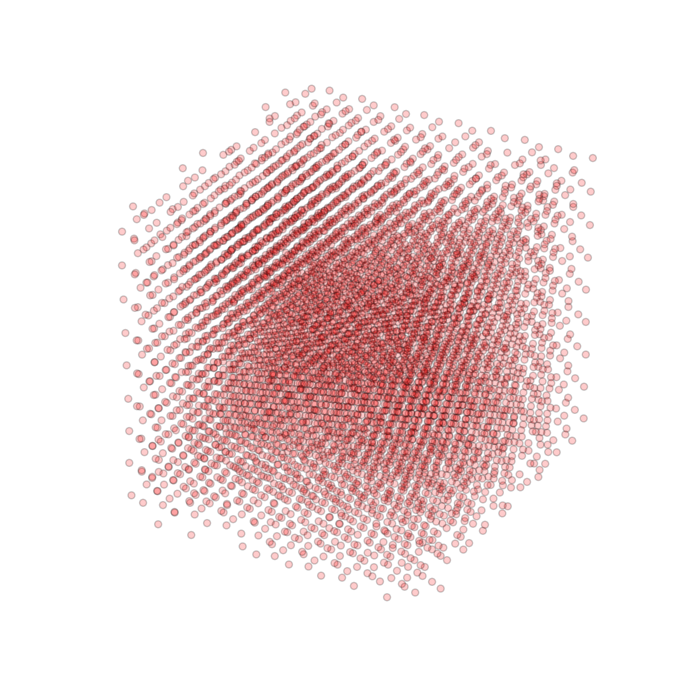
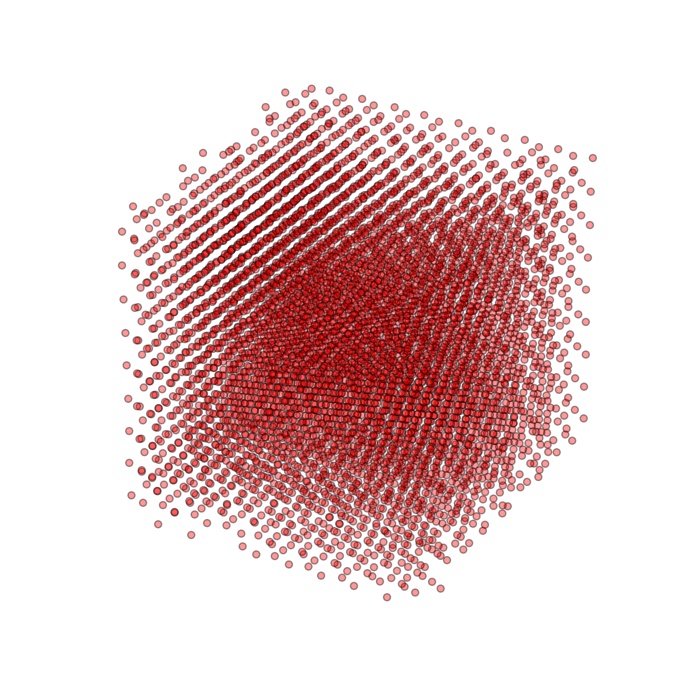
updated README and examples

Changed region(s): [[0.1506, 0.1212, 0.8737, 0.8788]]

diff --git a/rdfpy/examples/crystal.py b/rdfpy/examples/crystal.py
@@ -5,11 +5,15 @@ import matplotlib.pyplot as plt
 from mpl_toolkits.mplot3d import Axes3D
 from rdfpy import rdf3d
 
+from matplotlib import rc
+rc('font',**{'family':'sans-serif','sans-serif':['Helvetica']})
+rc('text', usetex=True)
+
 particles = np.load('./crystal.npy')
 
 fig = plt.figure(figsize=(9, 9))
 ax = fig.add_subplot(111, projection='3d')
-ax.scatter(particles[:, 0], particles[:, 1], particles[:, 2], color='r', alpha=0.2, edgecolors='k', s=25)
+ax.scatter(particles[:, 0], particles[:, 1], particles[:, 2], color='r', alpha=0.4, edgecolors='k', s=25)
 plt.axis('off')
 plt.savefig('./crystal-particles.png', bbox_inches='tight', pad_inches=0.0)
 plt.close()
@@ -22,12 +26,12 @@ fig, axes = plt.subplots(1, 2, figsize=(12, 4), gridspec_kw={'width_ratios': [1,
 
 axes[0].imshow(image)
 axes[0].axis('off')
+axes[0].set_title(r'Crystal')
 
 axes[1].plot(radii, g_r, color='k', alpha=0.75)
 axes[1].hlines(y=1.0, xmin=0.0, xmax=max(radii), color='r', linestyle='--', alpha=0.4)
-axes[1].set_ylabel('g(r)')
-axes[1].set_xlabel('r')
+axes[1].set_ylabel(r'g(r)')
+axes[1].set_xlabel(r'r')
 axes[1].set_xlim(0.0, max(radii))
-plt.suptitle('Crystal')
 plt.savefig('./crystal.png', bbox_inches='tight', pad_inches=0.25)
 plt.show()

diff --git a/rdfpy/examples/water.py b/rdfpy/examples/water.py
@@ -5,12 +5,16 @@ import matplotlib.pyplot as plt
 from mpl_toolkits.mplot3d import Axes3D
 from rdfpy import rdf3d
 
+from matplotlib import rc
+rc('font',**{'family':'sans-serif','sans-serif':['Helvetica']})
+rc('text', usetex=True)
+
 # particle positions were obtained from http://www.ergoscf.org/xyz/h2o.php
 particles = np.load('./water.npy')
 
 fig = plt.figure(figsize=(9, 9))
 ax = fig.add_subplot(111, projection='3d')
-ax.scatter(particles[:, 0], particles[:, 1], particles[:, 2], color='aqua', alpha=0.2, edgecolors='k', s=25)
+ax.scatter(particles[:, 0], particles[:, 1], particles[:, 2], color='aqua', alpha=0.3, edgecolors='k', s=25)
 plt.axis('off')
 plt.savefig('./water-particles.png', bbox_inches='tight', pad_inches=0.0)
 plt.close()
@@ -26,9 +30,9 @@ axes[0].axis('off')
 
 axes[1].plot(radii, g_r, color='k', alpha=0.75)
 axes[1].hlines(y=1.0, xmin=0.0, xmax=max(radii), color='r', linestyle='--', alpha=0.4)
-axes[1].set_ylabel('g(r)')
-axes[1].set_xlabel('r')
+axes[1].set_ylabel(r'g(r)')
+axes[1].set_xlabel(r'r')
 axes[1].set_xlim(0.0, max(radii))
-plt.suptitle('Water')
+axes[0].set_title(r'H$_{2}$O')
 plt.savefig('./water.png', bbox_inches='tight', pad_inches=0.25)
 plt.show()

diff --git a/README.md b/README.md
@@ -3,6 +3,8 @@
 rdfpy is a Python library for computing fast 2D and 3D radial distribution functions. 
 
 ![Alt text](rdfpy/examples/crystal.png)
+![Alt text](rdfpy/examples/water.png)
+
 
 
 ## Installation
@@ -21,6 +23,8 @@ particles = np.random.uniform(0.0, 10.0, size=(1000, 3))  # random particles in 
 
 g_r, radii = rdf3d(particles, dr=0.1)
 ```
+
+**Note:** In order for rdfpy to work correctly, your particles should spatially be in a cuboidal box, where the entire box is filled with particles.
 
 ## Authors
 
